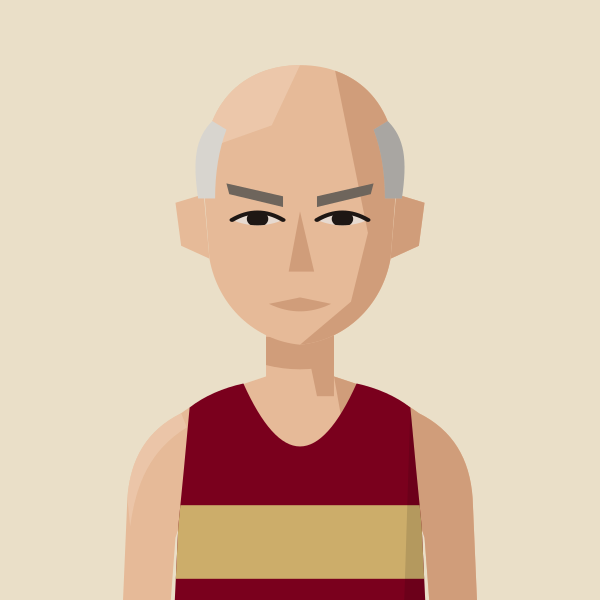
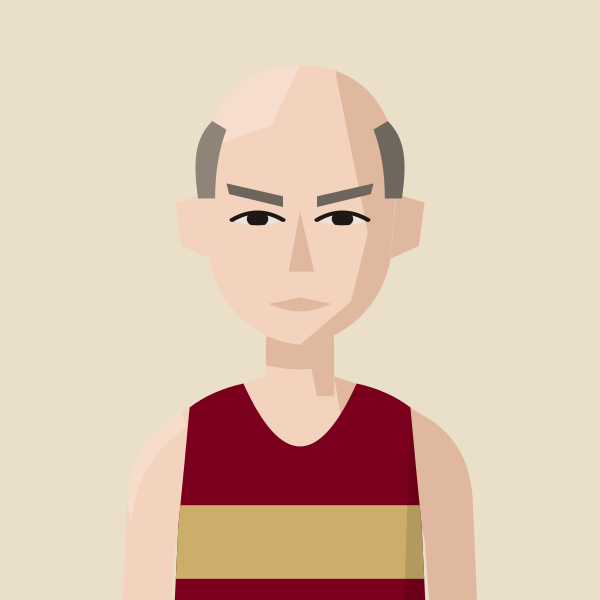
Will Cockerell: fairer skin, ash-grey sides; Patrick McDougall: bald on top
Claude-Session: https://claude.ai/code/session_01MgmDWhFqnSSnP4iBLKXUZC

Changed region(s): [[0.27, 0.09, 0.72, 0.75], [0.66, 0.69, 0.81, 1.0], [0.18, 0.69, 0.33, 1.0]]

diff --git a/files/index.html b/files/index.html
@@ -578,7 +578,7 @@ add('kitty-shepherd-cross','BEL','Kitty Shepherd-Cross','Kitty Shepherd Cross');
 return m;})();
 // Athlete header figure: superstar portrait if we have one, else a grey runner in the club vest, else the plain vest icon
 // Changes whenever any portrait changes (set by tools/build_og.py), so browsers fetch fresh images instead of old cached ones
-const PORTRAIT_V='3a6c9e69';
+const PORTRAIT_V='e6454b24';
 const AthletePortrait=({name,club,w,fill,onClick})=>{const[failed,setFailed]=useState(false);const pk=PORTRAITS[normalizeNameForCompare(name).replace(/\s*\([^)]*\)$/,'')];const file=pk&&pk.club===club?pk.file:null;const src=file?`/portraits/athletes/${file}.svg?v=${PORTRAIT_V}`:PORTRAIT_CLUBS.has(club)?`/portraits/clubs/${club.replace(/\//g,'').replace(/&/g,'and')}.svg?v=${PORTRAIT_V}`:null;if(!src||failed)return<div onClick={onClick} className={onClick?'cursor-pointer':''}><ClubShield club={club} size={w}/></div>;const h=Math.round(w*148/126),ih=Math.round(w*1.4);if(fill)return<div onClick={onClick} className="cursor-pointer" style={{alignSelf:'stretch',minHeight:h,aspectRatio:'126 / 148',flexShrink:0,position:'relative',borderRadius:4,overflow:'hidden'}}><img src={src} alt={file?`Portrait of ${name.replace(/\s*\([^)]*\)$/,'')}`:`Runner in ${CLUBS[club]?.name||club} vest`} style={{position:'absolute',top:0,left:0,display:'block',width:'100%',height:'auto'}} onError={()=>setFailed(true)}/></div>;return<div style={{width:w,height:h,borderRadius:4,overflow:'hidden',flexShrink:0}}><img src={src} alt={file?`Portrait of ${name.replace(/\s*\([^)]*\)$/,'')}`:`Runner in ${CLUBS[club]?.name||club} vest`} width={w} height={ih} style={{display:'block',width:w,height:ih}} onError={()=>setFailed(true)}/></div>;};
 const getClubVestSvg=(club)=>{
   const p="M3 0 L6 0 Q7 4 10 5 Q13 4 14 0 L17 0 L17 20 L3 20 Z";

diff --git a/tools/gen_portraits.py b/tools/gen_portraits.py
@@ -532,7 +532,7 @@ save("john-gilbert", figure("KEN", skin=1, hair="fringe", hair_colour="#5C3D28",
 save("chris-busaileh", figure("KEN", skin=1, hair="croppeak", hair_colour="#A85A30"))
 save("jim-allchin", figure("KEN", skin=1, hair="longstraight", hair_colour="#86593A", headband="#C8323A", facial="stubble"))
 save("finn-johnson", figure("H/W", skin=2, hair="quiffrecede", hair_colour="#3A2620", facial="beard"))
-save("will-cockerell", figure("BEL", skin=2, hair="horseshoe", hair_colour="#D8D5CF", brow_colour="#6E655C", frown=True))
+save("will-cockerell", figure("BEL", skin=1, hair="horseshoe", hair_colour="#8E8478", brow_colour="#6E655C", frown=True))
 save("nick-goolab", figure("BEL", skin=3, hair="slicktail", hair_colour="#1C1714", facial="stubble", cleft=True))
 save("arne-dumez", figure("BEL", skin=1, hair="quiff", hair_colour="#8E6643", facial="mostubble"))
 save("geoff-jerwood", figure("HHH", skin=1, hair="shaggyrecede", hair_colour="#CFC3A6", facial="beard", brow_colour="#A8996F", jacket=("#2C3036", "#22262B", None, ("#4E5660", "#626B76")), jacket_marks={"initials": "GJ", "saltire": True}))
@@ -663,4 +663,4 @@ save("neil-wilson", figure("BEL", skin=1, hair="tuftrecede", hair_colour="#86664
 save("lloyd-kempson", figure("BEL", skin=1, hair="quiff", hair_colour="#8A6A48", facial="stubble", facial_colour="#8A6A48", shades=True, shades_col="#1A1A1A", shades_frame="#2A2A2A", necklace="#C9A646"))
 save("andy-coley-maud", figure("G&G", skin=1, hair="quiffrecede", hair_colour="#6B4A2E"))
 save("dan-cliffe", figure("H/W", skin=2, hair="messyfringe", hair_colour="#241A16", facial="stubble", facial_colour="#2E2420"))
-save("patrick-mcdougall", figure("BEL", skin=1, hair="croprecederound", hair_colour="#9A9893", gaunt=True, creases=True))
+save("patrick-mcdougall", figure("BEL", skin=1, hair="horseshoe", hair_colour="#B8B5AF", gaunt=True, creases=True))
